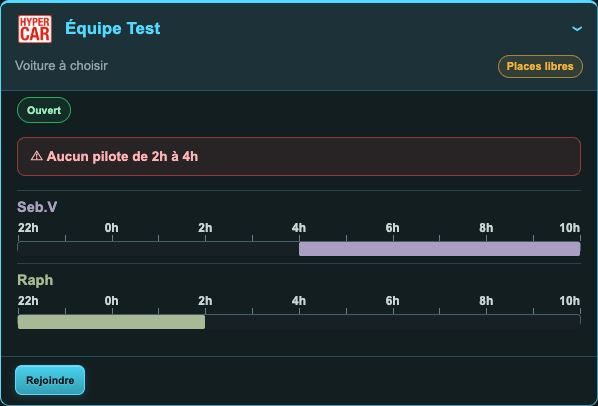
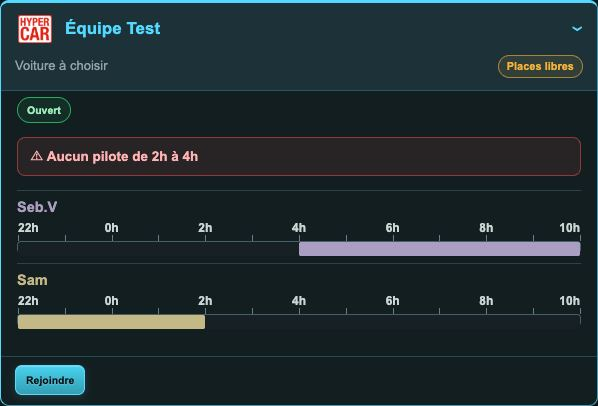
Remove FMT team references from the site
- Crew name example: 'Ex. Équipage Alpha' instead of 'Ex. FMT Racing 1'
- Help screenshots regenerated with made-up crew and driver names (local test data renamed)
- Neutral names for the theme file, CSS variables and background pattern (racing-theme.css,
  --brand-*, tech-pattern.svg), the API error log and test fixtures

Changed region(s): [[0.0301, 0.7685, 0.3612, 0.8276], [0.0301, 0.6798, 0.0903, 0.7094]]

diff --git a/styles/racing-theme.css b/styles/racing-theme.css
@@ -1,4 +1,4 @@
-/* FMT / Arc Raiders inspired visual pass.
+/* Racing visual pass (Arc Raiders inspired).
    Presentation only: no application behavior, data model or information architecture changes. */
 :root {
   --bg: #07090a;
@@ -13,11 +13,11 @@
   --yellow: #e6b452;
   --red: #e4483d;
   --accent: #62dce0;
-  --fmt-cyan: #59d3d8;
-  --fmt-red: #e4483d;
-  --fmt-gold: #e7b653;
-  --fmt-cream: #f1e3c4;
-  --fmt-ink: #090c0e;
+  --brand-cyan: #59d3d8;
+  --brand-red: #e4483d;
+  --brand-gold: #e7b653;
+  --brand-cream: #f1e3c4;
+  --brand-ink: #090c0e;
 }
 
 html { background: #07090a; }
@@ -38,7 +38,7 @@ body::before {
   pointer-events: none;
   background-image:
     linear-gradient(rgba(7,9,10,.58),rgba(7,9,10,.76)),
-    url('/images/fmt-tech-pattern.svg');
+    url('/images/tech-pattern.svg');
   background-repeat: repeat, repeat;
   background-size: auto, 720px 480px;
   background-position: center, 40px 10px;
@@ -86,7 +86,7 @@ header::after {
   position:absolute;
   inset:auto 0 0;
   height:2px;
-  background:linear-gradient(90deg,var(--fmt-cyan),var(--fmt-red) 46%,var(--fmt-gold) 78%,transparent);
+  background:linear-gradient(90deg,var(--brand-cyan),var(--brand-red) 46%,var(--brand-gold) 78%,transparent);
   opacity:.9;
 }
 .header-inner {
@@ -117,7 +117,7 @@ header::after {
   backdrop-filter: blur(9px);
   -webkit-backdrop-filter: blur(9px);
 }
-#navigation .account-name { color: var(--fmt-cream); }
+#navigation .account-name { color: var(--brand-cream); }
 #navigation .account-name small { color: #7fd9dc; }
 
 /* Core surfaces */
@@ -156,7 +156,7 @@ main { position: relative; }
 .creation-intro h2,
 .creation-card h2,
 .my-entry-title h2 {
-  color: var(--fmt-cream);
+  color: var(--brand-cream);
   text-shadow: 0 1px 16px rgba(232,181,82,.05);
 }
 .page-subtitle,
@@ -164,7 +164,7 @@ main { position: relative; }
 .creation-help,
 .muted { color: var(--muted); }
 .creation-kicker,
-.my-entry-kicker { color: var(--fmt-gold); }
+.my-entry-kicker { color: var(--brand-gold); }
 
 /* Buttons and controls */
 .primary-button,
@@ -207,9 +207,9 @@ textarea {
 }
 input:focus,
 select:focus,
-textarea:focus { border-color: var(--fmt-cyan); box-shadow: 0 0 0 2px rgba(89,211,216,.09); }
+textarea:focus { border-color: var(--brand-cyan); box-shadow: 0 0 0 2px rgba(89,211,216,.09); }
 
-/* FMT accent treatments */
+/* Accent treatments */
 .event-period-heading,
 .fold-section > h2,
 .crew-heading,
@@ -270,9 +270,9 @@ textarea:focus { border-color: var(--fmt-cyan); box-shadow: 0 0 0 2px rgba(89,21
   box-shadow: inset 0 1px rgba(255,255,255,.06);
 }
 .form-label { color: #a5b5b6; }
-.registration-context-banner.self { border-left-color: var(--fmt-cyan); }
-.registration-context-banner.other { border-left-color: var(--fmt-gold); }
-.registration-context-banner.category { border-left-color: var(--fmt-red); }
+.registration-context-banner.self { border-left-color: var(--brand-cyan); }
+.registration-context-banner.other { border-left-color: var(--brand-gold); }
+.registration-context-banner.category { border-left-color: var(--brand-red); }
 
 @media (min-width: 1000px) {
   main { max-width: 1180px; }

diff --git a/crew-builder.js b/crew-builder.js
@@ -185,7 +185,7 @@ function panelMarkup(event) {
       ${pane(1, `<p class="registration-step-help">${description}</p>
         <div class="crew-builder-fields">
           <label>Catégorie<select name="builderCategory" ${categoryDisabled?'disabled':''}>${categories.map(category => `<option value="${esc(category)}" ${category === builderState.category ? 'selected' : ''}>${esc(category)}</option>`).join('')}</select></label>
-          <label>Nom de l’équipage<input name="builderName" maxlength="60" required value="${esc(builderState.name)}" placeholder="Ex. FMT Racing 1"></label>
+          <label>Nom de l’équipage<input name="builderName" maxlength="60" required value="${esc(builderState.name)}" placeholder="Ex. Équipage Alpha"></label>
           <label>Voiture<select name="builderCar"><option value="">Voiture à définir</option>${(CARS[builderState.category] || []).map(car => `<option value="${esc(car)}" ${car === builderState.car ? 'selected' : ''}>${esc(car)}</option>`).join('')}</select></label>
         </div>${categoryNote}`)}
       ${pane(2, `${lockedNote}<p class="registration-step-help">${editMode ? 'Coche ou décoche les pilotes que tu veux dans cet équipage.' : 'Choisis les pilotes inscrits en ' + esc(builderState.category) + ' sur ce départ. Tu peux aussi le faire plus tard.'}</p>

diff --git a/styles/banner-media.css b/styles/banner-media.css
@@ -36,7 +36,7 @@ header.site-hero::after {
   inset: auto 0 0;
   z-index: 4;
   height: 2px;
-  background: linear-gradient(90deg,var(--fmt-cyan),var(--fmt-red) 46%,var(--fmt-gold) 78%,transparent);
+  background: linear-gradient(90deg,var(--brand-cyan),var(--brand-red) 46%,var(--brand-gold) 78%,transparent);
   opacity: .9;
   pointer-events: none;
 }

diff --git a/styles.css b/styles.css
@@ -4,6 +4,6 @@
 @import url('/styles/desktop-circuit.css');
 @import url('/styles/timeline.css?v=5');
 @import url('/styles/registration-context.css');
-@import url('/styles/fmt-racing-theme.css');
+@import url('/styles/racing-theme.css');
 @import url('/styles/banner-media.css');
 @import url('/styles/crew-summary.css?v=1');

diff --git a/styles/pilot-dashboard.css b/styles/pilot-dashboard.css
@@ -195,7 +195,7 @@
   grid-column: 1 / -1;
   border-color: rgba(82,207,212,.68);
   background: rgba(82,207,212,.055);
-  box-shadow: inset 3px 0 0 var(--fmt-cyan, var(--accent));
+  box-shadow: inset 3px 0 0 var(--brand-cyan, var(--accent));
 }
 
 .my-entry-pilot:not(.is-me) .crew-pilot-availability {

diff --git a/styles/my-entries-native.css b/styles/my-entries-native.css
@@ -182,7 +182,7 @@
 .ux-my-entry-pilot-card.is-own-pilot {
   border-color: rgba(82,207,212,.8) !important;
   background: rgba(82,207,212,.07);
-  box-shadow: inset 3px 0 0 var(--fmt-cyan, #52cfd4);
+  box-shadow: inset 3px 0 0 var(--brand-cyan, #52cfd4);
 }
 
 .ux-my-entry-pilot-card .pilot-main {

diff --git a/styles/foundation.css b/styles/foundation.css
@@ -49,7 +49,7 @@ button {
 
 
 /* =========================================================
-   BARRE ARC / FMT
+   BARRE ARC
 ========================================================= */
 
 .top-stripes {
